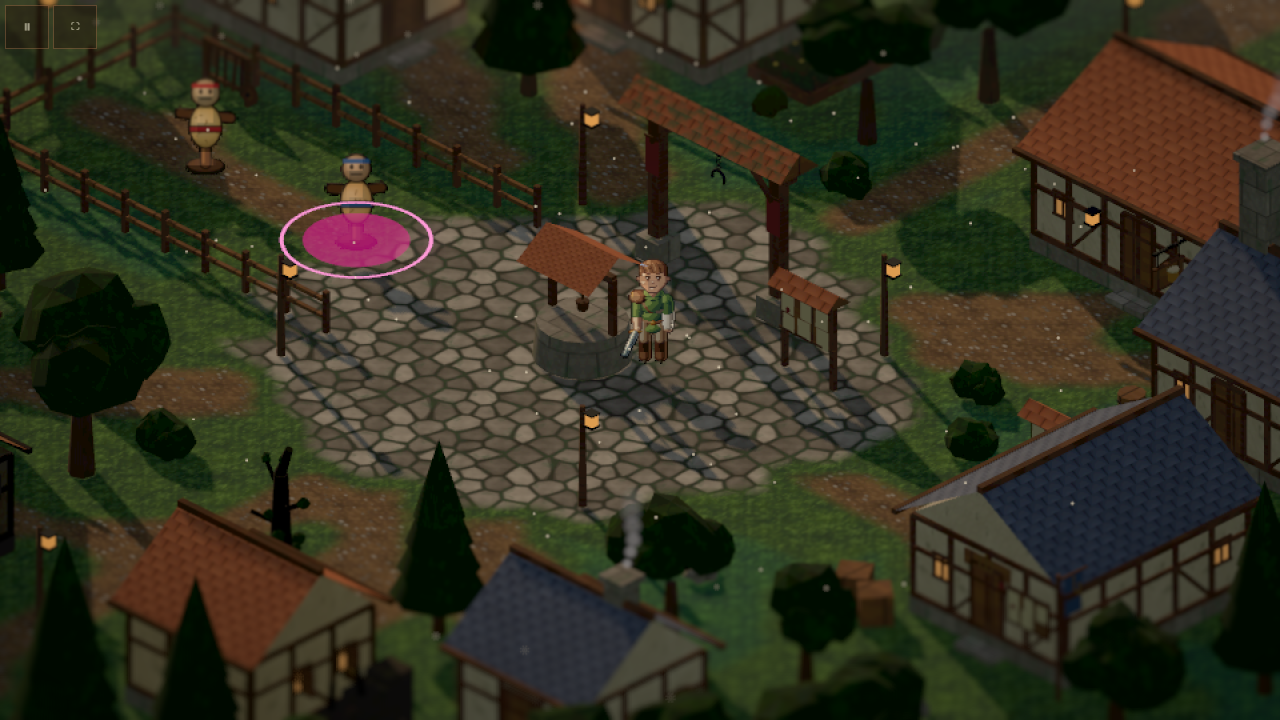
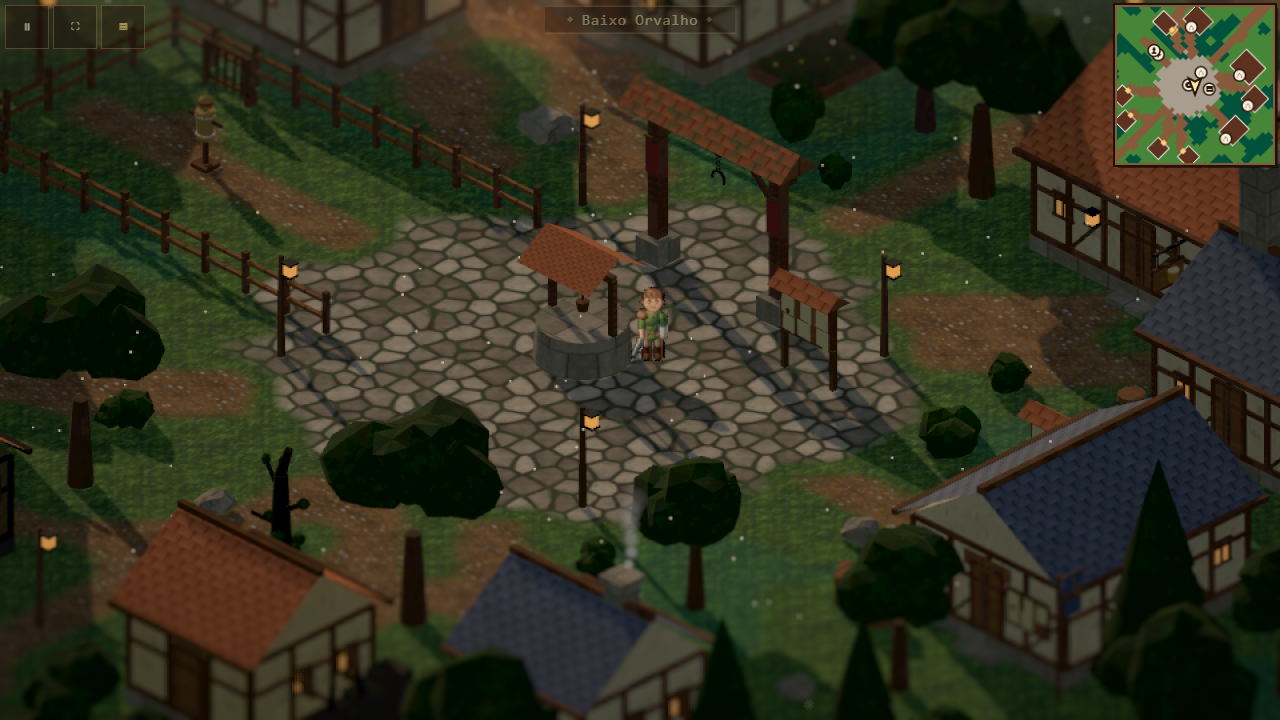
D-045 e briefing v0.1.3: mapa de mundo estilizado

diff --git a/docs/02_roadmap.md b/docs/02_roadmap.md
@@ -36,7 +36,7 @@ Recorte do slice para ter algo jogável antes dele: **cerca de 30 minutos**, da 
 | **v0.1.0** | Como está na `main` hoje (esqueleto) | — | ✅ |
 | **v0.1.1** | Batalha por turnos básica como está, **após o usuário validar** | Correção do bug de produção (UI em encontro por passos) conferida no Netlify; `test:navegador` cobrindo encontro natural; README e CHANGELOG (BL-014) atualizados | 01, 08, 09 |
 | **v0.1.2** | Resto do mapa da vila (com **interiores**, D-041) · **minimapa girado** (etapa 2, depois do mapa, D-042) | Mapa da vila em dados (14); **troca de mapa por portal** (porta ↔ interior), vários mapas carregáveis (08); interiores simples da Maren, taverna, forja, Torvan e escrivão (14, 07); minimapa em `src/ui` lendo o mapa (liga/desliga, acessível, barato); colisão dos prédios e **vila 100 % segura** (13) | 14, 07, 15, 08, 13 |
-| **v0.1.3** | Mapa ao redor (**mapa aberto simplificado**, D-044: campos e planícies) · **baús de tesouro** | **Troca de mapa** (portais, carregamento sem travar) e vários mapas em dados; objetos interativos (baú) com **estado do mundo serializável** (baú aberto não reaparece) desde já, para o save da v0.1.5; itens por ID (`item_`) | 14, 13, 08 |
+| **v0.1.3** | **Mapa de mundo estilizado** (D-044, D-045: Campos de Baixo Orvalho; vila como marcador; baús só em locais) | **Troca de mapa** (portais, carregamento sem travar) e vários mapas em dados; objetos interativos (baú) com **estado do mundo serializável** (baú aberto não reaparece) desde já, para o save da v0.1.5; itens por ID (`item_`) | 14, 13, 08 |
 | **v0.1.4** | NPCs da vila · **janelas de diálogo** · **lojas** · **moeda** | Sprites dos NPCs (04, estilo do item-modelo); diálogo e textos só por ID, com +40 % de espaço e sem concatenação (02, 15); **inventário** e menu (15) necessários à loja; moeda definida (nome, valores, preços em `data/`, 06 com 02); tela de loja com compra e venda, teclado e gamepad | 02, 04, 13, 15, 06 |
 | **v0.1.5** | **Encontros aleatórios** no entorno · **classe do Edric** e habilidades · **subir de nível por XP** (D-036) · **save** e recuperação no mapa · **recompensas** pós-batalha | **Save local completo** (BL-024): versão, migração, escrita segura, backup, exportar/importar, validação rígida; modo de recuperação definido (decisão sua: estalagem, fonte, ponto de descanso ou item); tabela de XP e crescimento por nível em `data/` com testes (06); zonas de encontro do entorno (14); tela de resultado já existente reaproveitada; balanceamento por simulação | 06, 03, 13, 08, 15 |
 | **v0.1.6** | **3 ou 4 missões** na vila (coletar presas de lobo, eliminar slimes, eliminar monstros numa área, coletar flores) · **sistema de missões** · só ao fim delas o **desafio de guerreiro** do mestre fica disponível | Sistema de missões (13): estados, contadores por evento (`golpe_acertou`, `morreu`, `item_coletado`), **diário de missões** na UI (15), persistência no save; drops e coletáveis do mapa (presas, flores) com IDs; porta do desafio condicionada às missões; textos e diálogos (02) | 13, 02, 15, 06 |

diff --git a/docs/briefings/BRF-v013_mapa_de_mundo.md b/docs/briefings/BRF-v013_mapa_de_mundo.md
@@ -1,0 +1,19 @@
+# BRF v0.1.3 — Mapa de mundo estilizado (D-044, D-045)
+
+Branch de trabalho: **`dev-v013`** (não commitar; o Produtor commita). Não mexer em `dev`. Sem baús no mundo. Reportar por SendMessage ao Produtor. Linguagem: pt-BR; textos por ID; sem número mágico (dados em `data/`).
+
+## Meta
+Mapa de mundo "Campos de Baixo Orvalho", estilo Final Fantasy antigo: câmera **mais distante**, terreno em **tiles simples** (grama, mata rala, água, estrada, montanha), **herói minúsculo e lento** (sprite própria mais simples), **marcadores** de locais. Tocar/clicar/ir até o marcador da vila entra na vila (portal, névoa escura); sair pelo vão sul da vila volta ao marcador. Marcadores futuros (bosque, caverna do Hollowpaw) visíveis, **interditados** (aviso `txt_portal_interditado`). Sem encontros (v0.1.5), sem baús, sem NPCs.
+
+## Por agente
+- **08 Arquiteto:** novo `tipo_mapa: "mundo"` (esquema/validador), modo de render e câmera de mundo (zoom out, enquadramento pelo herói, limites do mapa), preencher a janela mantendo D-039; terreno em tiles leves e barato (60 fps; pior 1 % ≥ 45; baixo/médio/alto); carregar o mapa de mundo junto aos outros; transição mundo↔local reaproveitando portais; `mapa_entrou` com nome do mapa.
+- **14 Níveis:** `map_mundo_orvalho` em dados (gerado por `tools/`, tamanho sugerido 48×48 tiles de mundo): terreno, estradas, mar/rio, montanhas na borda; marcador da vila (portal ativo → `map_baixo_orvalho`, chegada no vão sul), marcadores interditados do bosque e da caverna; ajustar o vão sul da vila para levar ao mundo (portal ativo); colisão do terreno (água/montanha); `inicio_jogador` do mundo não é usado (o jogo ainda começa na vila).
+- **07 Cenários:** visual dos tiles de mundo, marcadores (vila, bosque, caverna), pequenos props (árvores/rochas/ponte) de baixa contagem; luz e névoa de mundo, coerentes com a paleta existente; peso baixo.
+- **04 Sprites:** sprite do herói **de mundo** (minúscula, simples, 4 direções, 2–4 quadros de andar), mesmo `hero_edric` (escala/arquivo próprio, gerada por código), âncora nos pés, previa.
+- **13 Exploração:** velocidade de andar do mundo (mais lenta, em `data/`), interação com marcadores (clicar/ir/E), aviso nos interditados, `mapa_trocado` e estado no save futuro; herói do mundo usa o atlas de mundo; colisão de terreno; sem encontros.
+- **15 UI/UX:** minimapa **desligado** no mundo (botão/atalho M some ou fica inativo), banner com o nome do mapa ("Campos de Baixo Orvalho"), nome do marcador ao aproximar/apontar, pausa e celular coerentes.
+- **02 Roteirista:** nome e textos de `map_mundo_orvalho` e dos 3 marcadores (vila Baixo Orvalho; bosque e caverna com nomes provisórios), aviso de local ainda inacessível. Revisar textos provisórios.
+- **09 QA / 03 / 06 / 10 / 05 / 11:** sem tarefa nesta versão.
+
+## Critérios de saída
+npm test, validar e build passam; testes de navegador (PC e celular) com: ir da vila ao mundo e voltar, banner do mapa, marcadores interditados, herói minúsculo animado, FPS ≥ meta nos 3 perfis; README/CHANGELOG ao fim.

diff --git a/docs/04_decisoes.md b/docs/04_decisoes.md
@@ -285,3 +285,10 @@ Respostas do usuário às perguntas t, u, v do 02:
 - **Efeito no roteiro:** **v0.1.3** (entorno) passa a ser o **mapa aberto simplificado** com a vila como ponto de entrada; **v0.1.7** (bosque e caverna) são **locais ricos acessados por portal**, com corredores e salas estreitas (mais baratos que céu aberto). Escopo e versões não mudam; só o custo por mapa cai.
 - **Registro de desejo (usuário):** depois do slice, **gerar campos e masmorras por regras** (densidade de vegetação, caminhos, salas, sementes) para expandir o jogo com facilidade. **Fora do slice e da demo**; entra no backlog como BL-033.
 - **Processo:** pedir uma coisa por vez, a menos agentes, e juntar os ajustes de playtest num briefing só.
+
+## D-045 — v0.1.3: mapa de mundo estilizado (estilo Final Fantasy) e baús só em locais (2026-11-02)
+- **Decisão (usuário):** o mapa aberto é um **mapa de mundo estilizado**, não a câmera da vila: visão **mais distante**, terreno em tiles simples, **herói minúsculo (sprite própria, mais simples) e mais lento**. A vila (e depois bosque e caverna) aparece como **marcador** no mapa de mundo; **entra-se tocando o marcador** (D-044).
+- **Baús de tesouro:** **saem do mapa de mundo**; existem só em **mapas de locais** (vilas, cidades, bosques, florestas, cavernas, masmorras…). A vila já tem o baú da casa do Edric; a v0.1.3 não coloca baús no mundo.
+- **Nome provisório (usuário):** **Campos de Baixo Orvalho**.
+- **Assumido pelo Produtor (declarado):** v0.1.3 = modo de mapa de mundo (render e câmera próprios), 1 mapa `map_mundo_orvalho` com terreno, a vila como marcador ativo e marcadores futuros (bosque, caverna) visíveis porém interditados, **transição mundo ↔ local por portal** com a mesma névoa escura, saída da vila pelo vão sul volta ao marcador, minimapa desligado no mundo (o mapa já é o resumo), encontros aleatórios só na v0.1.5. Trabalho em branch `dev-v013` (a v0.1.2 aguarda o teste do usuário em `dev`).
+- Briefing: `docs/briefings/BRF-v013_mapa_de_mundo.md`.
